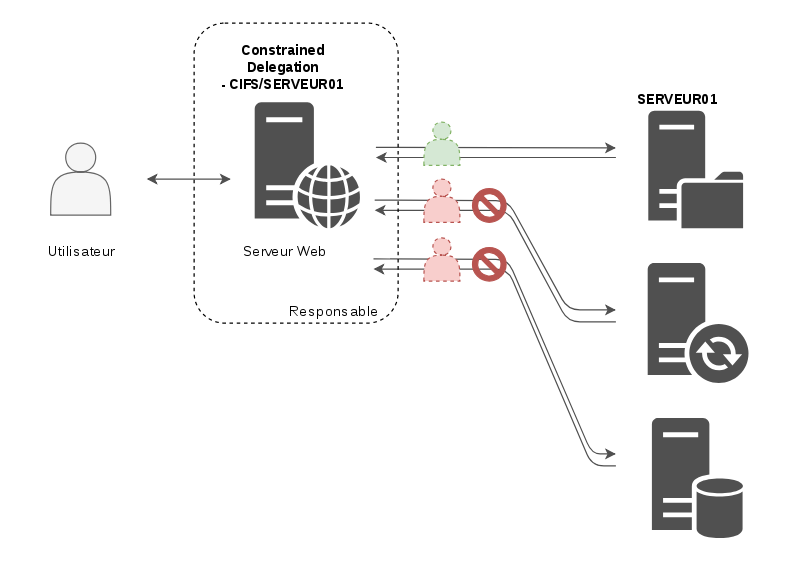
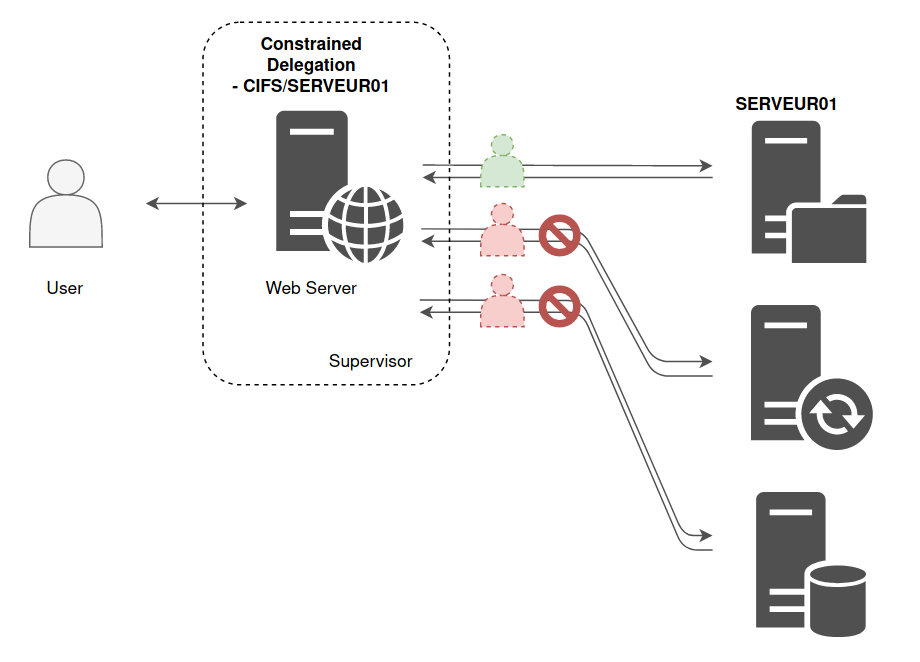
Kerberos Delegation Translation

diff --git a/_drafts/2019-03-30-unconstrained-delegation.md b/_drafts/2019-03-30-unconstrained-delegation.md
@@ -6,180 +6,180 @@ layout: post
 permalink: /constrained-unconstrained-delegation/
 disqus_identifier: 0000-0000-0000-00ab
 cover: assets/uploads/2019/02/impersonation.png
-description: "Au sein d'un Active Directory, des services peuvent être utilisés par des utilisateurs. Il arrive parfois que ces services doivent en contacter d'autres, au nom de l'utilisateur, comme un service web pourrait avoir besoin de contacter un serveur de fichiers. Afin d'autoriser un service à accéder à un autre service au nom de l'utilisateur, une solution a été mise en place : La délégation Kerberos."
+description: "Within an Active Directory, services can be used by users. Sometimes these services need to contact others, on behalf of the user, like a web service might need to contact a file server. In order to allow a service to access another service on behalf of the user, a solution has been implemented (introduced from Windows Server 2000) to meet this need : The Kerberos delegation."
 tags:
   - "Active Directory"
   - Windows
 ---
 
-Au sein d'un Active Directory, des services peuvent être utilisés par des utilisateurs. Il arrive parfois que ces services doivent en contacter d'autres, au nom de l'utilisateur, comme un service web pourrait avoir besoin de contacter un serveur de fichiers. Afin d'autoriser un service à accéder à un autre service **au nom de l'utilisateur**, une solution a été mise en place (introduite à partir de Windows Server 2000) pour répondre à ce besoin : **La délégation Kerberos.**
+Within an Active Directory, services can be used by users. Sometimes these services need to contact others, on behalf of the user, like a web service might need to contact a file server. In order to allow a service to access another service **on behalf of the user**, a solution has been implemented (introduced from Windows Server 2000) to meet this need : **The Kerberos delegation.**
 
 <!--more-->
 
-## Principe de la délégation
+## Delegation principle
 
-Pour comprendre le principe de la délégation Kerberos, prenons un exemple concret. Une machine héberge un service Web qui, via une jolie interface, permet à un utilisateur d'accéder à son dossier personnel, hébergé sur un serveur de fichiers. Nous sommes donc dans la situation suivante :
+In order to understand the Kerberos delegation principle, let's take a concrete example. A machine hosts a Web service that, with a nice interface, allows a user to access his personal folder, hosted on a file server. We are in the following situation :
 
-[![Etat actuel](/assets/uploads/2019/02/webfsuser.png)](/assets/uploads/2019/02/webfsuser.png)
+[![Actual state](/assets/uploads/2019/02/webfsuser.png)](/assets/uploads/2019/02/webfsuser.png)
 
-Le serveur Web est en frontal, et c'est lui qui va chercher les informations à la place de l'utilisateur sur le serveur de fichiers afin d'afficher le contenu d'un dossier, par exemple.
+The Web server is front-end, and it's this Web server that will fetch the information instead of the user on the file server in order to display the content of a file, for example.
 
-Cependant, le serveur web ne sait pas ce qui appartient à l'utilisateur sur le serveur de fichiers. Ce n'est pas son rôle à lui de décortiquer le [PAC](/kerberos-silver-golden-tickets/#pac) de l'utilisateur pour faire une demande spécifique au serveur de fichiers. C'est là qu'entre en jeu la **délégation**. Ce mécanisme permet au serveur web de prendre la place de l'utilisateur, et de s'authentifier au nom de celui-ci auprès du serveur de fichiers. Ainsi, du point de vue du serveur de fichiers, c'est l'utilisateur qui fait la demande, et le serveur de fichiers va pouvoir vérifier les droits de cet utilisateur, puis renvoyer les informations auxquelles ce compte a accès. C'est de cette manière que le serveur web peut ensuite afficher ces informations dans une jolie interface.
+However, the Web server does not know what belongs to the user on the file server. It is not his role to unpack the user's [PAC](/kerberos-silver-golden-tickets/#pac) to make a specific demand to the file server. This is where the **delegation**  comes in. This mechanism allows the Web server to take the user's place, and to authenticate on the user's behalf to the file server. Thus, from the file server's point of view, it is the user who make the request, and the file server will be able to check the rights of this user, then send back the information to which this account has access. This is how the Web server can then display this information in a nice interface.
 
 [![Impersonation](/assets/uploads/2019/02/impersonation.png)](/assets/uploads/2019/02/impersonation.png)
 
 ## Constrained & Unconstrained Delegation
 
-La possibilité de relayer des identifiants peut être donnée à une machine ou un utilisateur de service, c'est à dire qui possède au moins un attibut [SPN](/service-principal-name-spn).
+The ability to relay identifiers can be given to a machine or a service user, i.e. who has at least one [SPN](/service-principal-name-spn) attribute.
 
-Il existe aujourd'hui trois manières d'autoriser une machine ou un compte de service de prendre la place d'un utilisateur pour communiquer avec un ou plusieurs autre(s) service(s) : La **Unconstrained Delegation**, la **Constrained Delegation** et la **Resource Based Constrained Delegation**.
+Today, there is three ways to authorize a machine or service account to take the place of a user to communicate with one or more other service(s) : The **Unconstrained Delegation**, the **Constrained Delegation** and the **Resource Based Constrained Delegation**.
 
 ### Kerberos Unconstrained Delegation - KUD
 
-Dans le cas d'une **Unconstrained Delegation** (KUD), le serveur ou le compte de service qui se voit attribuer ce droit est en mesure de se faire passer pour l'utilisateur pour communiquer avec **n'importe quel service** sur **n'importe quelle machine**.
+In the case of an **Unconstrained Delegation** (KUD), the server or the service account that is granted this right is able to pose as the user to communicate with **any services** on **any machine**.
 
-C'est historiquement le seul choix qu'il y avait lors de l'instauration du principe de délégation, mais il a été complété par le principe de la **Constrained Delegation**.
+It is historically the only choice there was when the delegation principle was introduced, but it has been completed by the principle of **Constrained Delegation**.
 
 [![Unconstrained Delegation](/assets/uploads/2019/02/unconstrained_delegation_schema.png)](/assets/uploads/2019/02/unconstrained_delegation_schema.png)
 
 
-Voici un exemple, dans mon lab, d'une machine qui est en **Unconstrained Delegation** :
+Here is an example, in my lab, of a machine that is in **Unconstrained Delegation** :
 
 [![Unconstrained Delegation](/assets/uploads/2019/02/unconstrained_delegation.png)](/assets/uploads/2019/02/unconstrained_delegation.png)
 
 ### Kerberos Constrained Delegation - KCD
 
-Si une machine ou un compte de service possède le flag **Constrained Delegation** (KCD), alors une liste de services autorisés sera associée à ce droit. Par exemple, dans le cas du serveur web de l'introduction, la machine hébergeant le serveur web aura le drapeau **KCD** avec comme précision que ce serveur ne peut relayer les informations de l'utilisateur qu'au service `CIFS` du serveur `SERVEUR01`.
+If a machine or a service account got the **Constrained Delegation** (KCD) flag, a list of authorized services shall be associated to this right. For example, in the case of our Web server of the introduction, the machine hosting the Web server will have the **KCD** flag with the precision that this server can only relay the information to the `CIFS` service of the `SERVEUR01` server.
 
 [![Constrained Delegation](/assets/uploads/2019/02/constrained_delegation_schema.png)](/assets/uploads/2019/02/constrained_delegation_schema.png)
 
-C'est donc le serveur relayant les informations de l'utilisateur qui possède l'information des services ([SPN](/service-principal-name-spn)) autorisés.
+So it's the server relaying the information of the user that own the information of the authorized ([SPN](/service-principal-name-spn)) services.
 
-En d'autres termes, le serveur en frontal va dire "je suis autorisé à m'authentifier en tant que l'utilisateur auprès de cette liste de [SPN](/service-principal-name-spn) : [...]".
+In other words, the front-end server will say "I'm allowed to authenticate as the user to this list of [SPN](/service-principal-name-spn) : [...]".
 
-Dans mon lab, le serveur web est `WEB-SERVER-01` et celui qui possède le partage de fichiers est `WEB-SERVER-02`. Voici donc à quoi ressemble la liste des services pour lesquels `WEB-SERVER-01` peut se faire passer pour l'utilisateur :
+In my lab, the Web server is `WEB-SERVER-01` and the one with file sharing is `WEB-SERVER-02`. So here is what the list of services for which `WEB-SERVER-01` can pretend  to be the user looks like :
 
 [![Delegation CIFS](/assets/uploads/2019/02/delegation_cifs.png)](/assets/uploads/2019/02/delegation_cifs.png)
 
 **\<note\>**
 
-De ma compréhension, le statut délégation ne peut être appliqué qu'à une machine ou un utilisateur de service (i.e. ayant au moins un attribut [SPN](/service-principal-name-spn)).
-- Dans le premier cas (Machine), cela implique que **tous** les services hébergés sur la machine peuvent relayer les informations de l'utilisateur.
-- Dans le deuxième cas (compte de service), cela veut dire que quel que soit le serveur sur lequel tournent les services exécutés par ce compte de service, ils -- ces services -- auront tous la possibilité de délégation.
+As I understand it, the delegation status can only be applied to a machine or a service user (i.e. having at least one [SPN](/service-principal-name-spn) attribute).
+- In the first case (Machine), that implies that **all** services hosted on the machine can relay the user information.
+- In the second case (Service account), this means that regardless of the server on which the services executed by this service account are running, they -- these services -- will all have the ability to be delegated.
 
-Je trouve ce comportement étonnant, j'aurais pensé qu'il était possible de décider que seul un service précis sur une machine précise pouvait relayer les informations de l'utilisateur, mais il me semble, en l'état, que cette granularité n'existe pas.
+I find this behavior strange, I would have thought it was possible to decide that only a specific service on a specific machine could relay the user's information, but it seems to me, as it stands, that this granularity does not exist.
 
-Si ma compréhension est incorrecte, n'hésitez pas à me le remonter dans les commentaires ou sur [twitter](https://twitter.com/HackAndDo).
+If my understanding is not correct, feel free to tell me in the comments or on [twitter](https://twitter.com/HackAndDo).
 
 **\</note\>**
 
 ### Resource Based Kerberos Constrained Delegation - RBKCD
 
-Enfin, nous avons le cas de la **Resource Based Constrained Delegation** (RBKCD). Apparue avec Windows Server 2012, cette solution permet de palier à quelques problèmes liés à la **KCD** (Responsabilité, délégation inter-domaines, ...). Sans trop aller dans les détails, la responsabilité de la délégation est déplacée. Alors que dans **KCD**, c'est au niveau du serveur qui délègue qu'on indique les [SPN](/service-principal-name-spn) autorisés, dans le cas du **RBKCD**, c'est au niveau des services finaux qu'on indique la liste des services qui peuvent communiquer avec eux via délégation. Ainsi, le schéma est le suivant :
+Finally, we have the **Resource Based Constrained Delegation** (RBKCD) case. Introduced with Windows Server 2012, this solution allows to overcome some problems related to the **KCD** (Responsibility, inter-domains delegation, ...). Without going into to much details, the delegation responsibility is moved. Whereas in **KCD**, it's at the delegating server level that the authorized [SPN](/service-principal-name-spn) are indicated, in the case of **RBKCD**, it's at the final services level that the list of services which can communicate with them by delegation are indicated. Thus, the diagram is as follows :
 
 [![Resource Based Constrained Delegation](/assets/uploads/2019/02/resource_based_constrained_delegation_schema.png)](/assets/uploads/2019/02/resource_based_constrained_delegation_schema.png)
 
-La responsabilité est déplacée, c'est au niveau du serveur qui reçoit les connexions avec délégation que se trouve l'information de si oui ou non cette délégation est acceptée.
+The responsibility is shifted, it's at the level of the server that receives the connections with delegation that the information of whether or not the delegation is accepted is found.
 
-En d'autres termes, c'est le service final qui dit "j'autorise cette liste de compte [...] à s'authentifier chez moi au nom d'un utilisateur".
+In other words, it's the end service that says "I allow this list of account [...] to authenticate to me on behalf of the user".
 
-## Détails techniques
+## Technical details
 
-Maintenant que le principe est compris (du moins je l'espère), nous allons détailler un peu ce process. Concrètement, comment est-ce qu'une machine ou un compte peut se faire passer pour un utilisateur auprès d'un service ? C'est ce que nous allons voir maintenant. Les détails entre les différentes techniques sont relativement différents, c'est pourquoi chacune d'entre elle sera expliquée séparemment. Accrochez vous, *it's gonna get dirty*.
+Now that the principle is understood (at least I hope so), let's go into a little more detail about this process. Concretely, how can a machine or an account can pretend to be a user with a service ? That's what we are going to see now. Details between every different techniques are relatively different, that's why each of them will be explained separately. Stay close on your seat, *it's gonna get dirty*.
 
 ### Kerberos Unconstrained Delegation - KUD
 
-Comme nous l'avons vu, dans ce cas, le serveur ou le compte de service peut s'authentifier au nom de l'utilisateur auprès de n'importe quel autre service. Pour que cela soit possible, il faut deux prérequis :
+As we have seen it, in this case, the server or the service account can authenticate on behalf of the user to any other services. For this to be possible, two prerequisites are required :
 
-* Le premier est que le compte qui veut déléguer une authentification possède le drapeau `ADS_UF_TRUSTED_FOR_DELEGATION` présent dans [ADS_USER_FLAG_ENUM](https://docs.microsoft.com/en-us/windows/desktop/api/iads/ne-iads-ads_user_flag). Pour pouvoir changer cette information, il faut avoir le droit `SeEnableDelegationPrivilege` qui est la plupart du temps seulement existant pour les administrateurs de domaine. Voici comment ce drapeau est placé sur le compte (machine ou compte de service):
+* The first one is that the account that wants to delegate an authentication has the `ADS_UF_TRUSTED_FOR_DELEGATION` flag in [ADS_USER_FLAG_ENUM](https://docs.microsoft.com/en-us/windows/desktop/api/iads/ne-iads-ads_user_flag). In order to change this information, you need to have the `SeEnableDelegationPrivilege` right, which is usually only available for domain administrators. Here is how the flag is set on the account (machine or service account):
 
 [![Unconstrained Delegation](/assets/uploads/2019/02/unconstrained_delegation.png)](/assets/uploads/2019/02/unconstrained_delegation.png)
 
+* The second one is that the user account which will be relayed is effectively "relayable". To do this, you **must not** set the [ADS_UF_NOT_DELEGATED](https://docs.microsoft.com/en-us/windows/desktop/api/iads/ne-iads-ads_user_flag) flag. By default, no account on the AD has this flag set, so they are all "relayable".
 
-* Le deuxième est que le compte utilisateur qui va être relayé soit effectivement "relayable". Pour cela, il **ne faut pas** faut que le drapeau [ADS_UF_NOT_DELEGATED](https://docs.microsoft.com/en-us/windows/desktop/api/iads/ne-iads-ads_user_flag) soit positionné. Par défaut, aucun compte de l'AD n'a ce drapeau de positionné, ils sont donc tous "relayables".
+Concretely, during exchanges with the domain controller as described in the [Kerberos in Active Directory](/kerberos) article, when the user ask for a TGS ([KRB_TGS_REQ](/kerberos/#krb_tgs_req)), he will specify the [SPN](/service-principal-name-spn) of the service he wants to use. It is at this point that the domain controller will look for the two prerequisites :
 
-Concrètement, lors des échanges avec le contrôleur de domaine tels que décrits dans l'article [Kerberos en Active Directory](/kerberos), lorsque l'utilisateur fait une demande de TGS ([KRB_TGS_REQ](/kerberos/#krb_tgs_req)), il précisera le [SPN](/service-principal-name-spn) du service qu'il souhaite consommer. C'est à ce moment que le contrôleur de domaine va chercher les deux prérequis :
+* Is the `ADS_UF_TRUSTED_FOR_DELEGATION` flag set in the attributes of the account associated to the [SPN](/service-principal-name-spn).
+* Is the `ADS_UF_NOT_DELEGATED` flag **not** set for the requesting user.
 
-* Est-ce que le drapeau `ADS_UF_TRUSTED_FOR_DELEGATION` est positionné dans les attributs du compte associé au [SPN](/service-principal-name-spn) 
-* Est-ce que le drapeau `ADS_UF_NOT_DELEGATED` n'est **pas** positionné pour l'utilisateur qui fait la demande
-
-Si les deux prérequis sont vérifiés, alors le contrôleur de domaine va répondre à l'utilisateur avec un [KRB_TGS_REQ](/kerberos/#krb_tgs_req) contenant les informations classiques, mais il va également intégrer dans sa réponse **une copie du TGT** de l'utilisateur, ainsi qu'une nouvelle clé de session associée.
+If both prerequisites are met, then the domain controller will respond to the user with a [KRB_TGS_REQ](/kerberos/#krb_tgs_req) containing standard information, but it will also contains a **copy of the user's TGT** in his response, and a new associated session key.
 
 [![TGT Copy](/assets/uploads/2019/02/cop_tgt.png)](/assets/uploads/2019/02/cop_tgt.png)
 
-Une fois en possession de ces éléments, l'utilisateur va continuer le processus classique en envoyant une requête auprès du service ([KRB_AP_REQ](/kerberos/#krb_ap_req)) en lui envoyant le TGS et un authentifiant. Le service va être en mesure de déchiffrer le contenu du TGS, vérifier l'identité de l'utilisateur en déchiffrant l'authentifiant, mais surtout il va pouvoir récupérer la copie du TGT ainsi que la clé de session associée pour, ensuite, se faire passer pour l'utilisateur auprès du contrôleur de domaine.
+Once in possession of these elements, the user will continue the classic process by sending a request to the service ([KRB_AP_REQ](/kerberos/#krb_ap_req)) by sending the TGS and an authenticator. The service will be able to decrypt the content of the TGS, verify the user's identity by decrypting the authenticator, but above all it will be able to retrieve the copy of the TGT and the associated session key, in order to pretend to be the user at the domain controller.
 
 [![TGT Memory](/assets/uploads/2019/02/tgt_memory.png)](/assets/uploads/2019/02/tgt_memory.png)
 
-En effet, maintenant en possession d'une copie du TGT de l'utilisateur ainsi que d'une clé de session valide, le service peut s'authentifier auprès de n'importe quel autre service au nom de l'utilisateur en faisant une demande de TGS au contrôleur de domaine, en lui fournissant ce TGT et en chiffrant un authentifiant avec la clé de session. C'est le principe de la **Unconstrained Delegation**.
+Now in possession of a copy of the user's TGT and a valid session key, the service can authenticate to any other service on the user's behalf by requesting the TGS from the domain controller, by providing this TGT and by encrypting an authenticator with the session key. It's the **Unconstrained Delegation** principle.
 
-Voici un schéma récapitulatif :
+Here is a summary diagram :
 
 [![Unconstrained Delegation Detailed](/assets/uploads/2019/02/unconstrained_delegation_detailed.png)](/assets/uploads/2019/02/unconstrained_delegation_detailed.png)
 
 
 ### Kerberos Constrained Delegation
 
-Pour la **Constrained Delegation**, une liste de [SPN](/service-principal-name-spn) ou de comptes autorisés sera fournie pour indiquer les services/comptes acceptés pour la délégation. De ce fait, le processus n'est pas le même. Le service concerné ne sera pas en possession du TGT de l'utilisateur, sinon il n'y a aucun moyen de contrôler les authentifications du service. Un mécanisme différent est utilisé.
+For the **Constrained Delegation**, a list of [SPN](/service-principal-name-spn) or of authorized accounts will be provided to indicate the services/accounts accepted for the delegation. Therefore, the process is not the same. The service involved will not be in possession of the user's TGT, otherwise there is no way to control service's authentication. A different mechanism is used.
 
-Mettons nous dans le cas où l'utilisateur s'authentifie auprès du `Service A` puis que ce `Service A` doit s'authentifier auprès du `Service B` en tant que l'utilisateur.
+Let's consider the case where the user authenticate to `Service A` and then this `Service A` has to authenticate himself to `Service B` as the user.
 
-L'utilisateur fait une requête de TGS, puis l'envoie au `Service A`. Ce service devant s'authentifier en tant que l'utilisateur auprès de `Service B`, il va demander un TGS au KDC au nom de l'utilisateur. Cette demande est régie par l'extension [S4U2Proxy](https://docs.microsoft.com/en-us/openspecs/windows_protocols/ms-sfu/bde93b0e-f3c9-4ddf-9f44-e1453be7af5a). Pour indiquer au contrôleur de domaine qu'il veut s'authentifier au nom de quelqu'un d'autre, deux attributs seront définis dans la demande de ticket [KRB_TGS_REQ](/kerberos/#krb_tgs_req) :
+The user makes a TGS request, then send it to `Service A`. Since this service needs to authenticate as the user to `Service B`, it will request a TGS to the KDC on behalf of the user. This request is governed by the [S4U2Proxy](https://docs.microsoft.com/en-us/openspecs/windows_protocols/ms-sfu/bde93b0e-f3c9-4ddf-9f44-e1453be7af5a) extension. To tell the domain controller it wants to authenticate on behalf of someone else, two attributes will be defined in the ticket request [KRB_TGS_REQ](/kerberos/#krb_tgs_req) :
 
-* le champ `additional-tickets`, d'habitude vide, doit cette fois contenir le TGS de l'utilisateur en question (sous condition que le drapeau `ADS_UF_NOT_DELEGATED` ne soit **pas** positionné pour l'utilisateur qui fait la demande. Si c'était le cas, le TGS de l'utilisateur ne serait pas `forwardable`, et le contrôleur de domaine ne l'accepterait pas dans la suite du processus)
-* Le drapeau [cname-in-addl-tkt](https://docs.microsoft.com/en-us/openspecs/windows_protocols/ms-sfu/17b9af82-d45a-437d-a05c-79547fe969f5), qui doit être positionné pour indiquer au DC qu'il ne doit pas utiliser les informations du serveur, mais celle du ticket présent dans `additional-tickets`, c'est à dire les informations de l'utilisateur pour lequel le service veut se faire passer.
+* The field `additional-tickets`, usually empty, must contain the user's TGS (given that the `ADS_UF_NOT_DELEGATED` flag is **not** set for the requesting user. If that was the case, the user's TGS would not be `forwardable`, and the domain controller would not accept it in the rest of the processes)
+* The [cname-in-addl-tkt](https://docs.microsoft.com/en-us/openspecs/windows_protocols/ms-sfu/17b9af82-d45a-437d-a05c-79547fe969f5) flag, which should be set to indicate to the DC that it should not use the server information, but the ticket information in `additional-tickets`, i.e. the information of the user the server wants to pretend to be.
 
-C'est lors de cette demande que le contrôleur de domaine, en voyant ces informations, va vérifier que `Service A` a le droit de s'authentifier auprès de `Service B` au nom de l'utilisateur.
+It is during this request that the domain controller, upon seeing this information, will verify that `Service A` has the right to authenticate to `Service B` on behalf of the user.
 
 #### Constrained Delegation - Classique
 
-Dans le cas classique de **Constrained Delegation** (donc quand l'information est située au niveau de `Service A`), cette information est présente dans l'attribut [msDS-AllowedToDelegateTo](https://docs.microsoft.com/en-us/openspecs/windows_protocols/ms-ada2/86261ca1-154c-41fb-8e5f-c6446e77daaa) **de l'objet (compte) demandeur**, donc de `Service A`, attribut qui spécifie la liste des [SPN](/service-principal-name-spn) autorisés pour la délégation. Par exemple ici l'attribut `msDS-AllowedToDelegateTo` contiendra `cifs/WEB-SERVER-02`.
+In the classic **Constrained Delegation** case (so when the information is located in `Service A`), this information is found in the [msDS-AllowedToDelegateTo](https://docs.microsoft.com/en-us/openspecs/windows_protocols/ms-ada2/86261ca1-154c-41fb-8e5f-c6446e77daaa) attribute **of the requesting object (account)**, thus of `Service A`, this attribute specifies the list of authorized [SPN](/service-principal-name-spn) for the delegation. For example here the `msDS-AllowedToDelegateTo` attribute will contain `cifs/WEB-SERVER-02`.
 
 [![Delegation CIFS](/assets/uploads/2019/02/delegation_cifs.png)](/assets/uploads/2019/02/delegation_cifs.png)
 
-Si le [SPN](/service-principal-name-spn) cible est bien présent, alors le KDC renvoie un TGS valide, avec le nom de l'utilisateur, pour le service demandé. Voici un schéma récapitulatif :
+If the targeted [SPN](/service-principal-name-spn) is present, then the KDC send back a valid TGS, with the name of the user, for the requested service. Here is a summary diagram :
 
 [![Constrained Delegation Detailed](/assets/uploads/2019/02/constrained_delegation_schema_detailed.png)](/assets/uploads/2019/02/constrained_delegation_schema_detailed.png)
 
 
 #### Constrained Delegation - Resource Based
 
-Le KDC va cette fois aller voir les attributs de **Service B** (et non plus de `Service A`). Il va vérifier que le compte associé à `Service A` est bien présent dans l'attribut [msDS-AllowedToActOnBehalfOfOtherIdentity](https://docs.microsoft.com/en-us/openspecs/windows_protocols/ms-ada2/cea4ac11-a4b2-4f2d-84cc-aebb4a4ad405) du compte lié à `Service B`.
+This time, the KDC will look at the attributes of **Service B** (instead of `Service A`). It will check that the account associated with `Service A` is present in the [msDS-AllowedToActOnBehalfOfOtherIdentity](https://docs.microsoft.com/en-us/openspecs/windows_protocols/ms-ada2/cea4ac11-a4b2-4f2d-84cc-aebb4a4ad405) attribute of the account linked to `Service B`.
 
 [![Resource Based Constrained Delegation Detailed](/assets/uploads/2019/02/resource_based_constrained_delegation_schema_detailed.png)](/assets/uploads/2019/02/resource_based_constrained_delegation_schema_detailed.png)
 
-Comme le montre le schéma, le fonctionnement technique est similaire, cependant les responsabilités de chaques entités sont radicalement différentes.
+As the diagram shows, the technical functioning is similar, however the responsibilities of each entity is radically different.
 
 ### Extension S4U2Self
 
-Si vous êtes encore là et que vous avez bien suivi, vous aurez remarqué que nous n'avons pas abordé dans cet article la notion de transition de protocole. En effet, dans ce qui a été expliqué concernant la délégation contrainte, nous partions du principe que le `Service A` était en possession d'un ticket de service provenant de `USER`, ticket qui était ajouté dans le champ `additional-tickets` de la demande de TGS (**S4U2Proxy**). Mais il arrive que l'utilisateur s'authentifie auprès du serveur d'une autre manière que via le protocole Kerberos (par exemple via NTLM, ou même un formulaire web). Dans ce cas, le serveur n'est pas en possession d'un TGS envoyé par l'utilisateur. Ainsi, `Service A` ne peut pas, en l'état, remplir le champ `additional-tickets` comme il le faisait dans les cas précédemment décrits.
+If you are still there and you are not lost, you should have noticed that we haven't touched on the notion of protocol transition in this article. Indeed, in the explanation of constrained delegation, we assumed that `Service A` had a service ticket coming from `USER`, which was added in the `additional-tickets` field of the TGS request (**S4U2Proxy**). But sometimes the user may authenticate to the server in other ways than the Kerberos protocol (e.g. via NTLM, or even a Web form). In this case, the server is not in possession of the TGS sent by the user. Thus, `Service A` cannot fill the `additional-tickets` field as it did in the case described above.
 
-C'est pourquoi il y a une étape supplémentaire, possible grâce à l'extension [S4U2Self](https://docs.microsoft.com/en-us/openspecs/windows_protocols/ms-sfu/02636893-7a1f-4357-af9a-b672e3e3de13), que `Service A` doit effectuer. Cette étape lui permet d'obtenir un TGS pour un utilisateur **choisi arbitrairement**. Pour cela, il effectue une demande de TGS classique ([KRB_TGS_REQ](/kerberos/#krb_tgs_req)) sauf qu'au lieu de mettre son nom à lui dans le bloc `PA-FOR-USER` (présent dans la partie préauthentification), il met le nom d'un utilisateur **qu'il choisit**.
+That is why there is an extra step, possible through the [S4U2Self](https://docs.microsoft.com/en-us/openspecs/windows_protocols/ms-sfu/02636893-7a1f-4357-af9a-b672e3e3de13) extension, that `Service A` must perform. This step allows it to obtain a TGS for a user **arbitrarily chose**. To do this, it makes a classic TGS request ([KRB_TGS_REQ](/kerberos/#krb_tgs_req)) except that instead of putting his own name in the `PA-FOR-USER` block (present in the pre-authentication part), it puts the name of a user **it chooses**.
 
-Evidemment, on pourrait croire que c'est une capacité très puissante et dangereuse puisqu'en fait, pour tous services `S` et `T` pour lesquels il y aurait une délégation possible de `S` vers `T`, le `Service S` pourrait se faire passer pour n'importe quel utilisateur auprès de `Service T`. Heureusement, ce n'est pas le cas. En effet, si le drapeau [ADS_UF_TRUSTED_TO_AUTHENTICATE_FOR_DELEGATION](https://docs.microsoft.com/en-us/windows/desktop/api/iads/ne-iads-ads_user_flag) n'est pas positionné sur l'objet associé au `Service S`, alors le ticket qu'il récupèrera ne sera pas tranférable (*forwardable*) et ne pourra donc pas être utilisé pour une délégation contrainte classique. Il existe un cas particulier pour la délégation Resource-Based, dont nous parlerons dans un autre article.
+Obviously, one would think that this is a very powerful and dangerous capability since in fact, for any services `S` and `T` for which there is a possible delegation from `S` to `T`, the `Service S` could pretend to be any user to `Service T`. Fortunately, this is not the case. Indeed, if the [ADS_UF_TRUSTED_TO_AUTHENTICATE_FOR_DELEGATION](https://docs.microsoft.com/en-us/windows/desktop/api/iads/ne-iads-ads_user_flag) is not set on the `Service S`'s associated object, then the ticket it retrieves is not *forwadable* and cannot be used for a classic constrained delegation. There is a special case for the Resource-Based Delegation, which we will discuss in another article.
 
-Pour que le compte puisse avoir ce drapeau, il faut le préciser ici dans l'interface graphique :
+In order for the account to have this flag set, it must be specified here in the GUI :
 
 [![Drapeau S4U2Self](/assets/uploads/2019/02/s4u2self_gui.png)](/assets/uploads/2019/02/s4u2self_gui.png)
 
-Attention, le schéma récapitulatif se complique, mais j'espère qu'il reste relativement clair.
+Be careful, the summary diagram is getting more complicated, but I hope it remains more or less clear.
 
 [![S4U2Self](/assets/uploads/2019/02/s4u2self.png)](/assets/uploads/2019/02/s4u2self.png)
 
-
-D'expérience, il est rare de trouver des comptes au sein d'un domaine qui possèdent ce drapeau. Si cependant un compte de ce type est compromis, alors tous les services auxquels ce compte est en droit de s'authentifier via délégation seront également compromis, puisque l'attaquant peut créer des tickets de service au nom d'utilisateurs arbitraires, notamment des utilisateurs administrateurs des services ciblés.
+From experience, it is rare to find accounts within a domain that have this flag. However, if such account is compromised, then all services to which that account is entitled to authenticate via delegation will also be compromised, since the attacker can create service tickets on behalf of arbitrary users, such as administrators users of targeted services.
 
 ## Conclusion
 
-Je pensais faire un article qui allait décrire le principe de Constrained et Unconstrained Delegation ainsi que les attaques associées, cependant les explications sont beaucoup plus denses que prévues, ainsi cet article reste consacré à l'explication. Les attaques associées seront présentées dans d'autres articles, que je citerai ici, au fil de leurs sorties.
+I was thinking of doing an article that would describe the principle of Constrained and Unconstrained Delegation as well as associated attacks, however the explanations are much more dense than expected, so this article remains devoted to explanation. Associated attacks will be presented in other articles, which I will quote here, as they come out.
 
-* [Unconstrained Delegation - Risques](/unconstrained-delegation-attack)
+* [Unconstrained Delegation - Risks](/unconstrained-delegation-attack)
 
-Si vous avez des questions ou remarques, n'hésitez pas, je suis tout ouïe.
+* [Resource-Based Constrained Delegation - Risks](/resource-based-constrained-delegation-attack)
+
+If you have any questions or suggestions, do not hesitate, I'm all ears.
 
 ## Ressources
 
-Grands mercis à eux pour leurs explications claires.
+Big thanks to them for their clear explanations.
 
 * [S4U2Pwnage - Harmj0y](https://www.harmj0y.net/blog/activedirectory/s4u2pwnage/)
 * [ADSecurity - Pyrotek3](http://adsecurity.org/)
